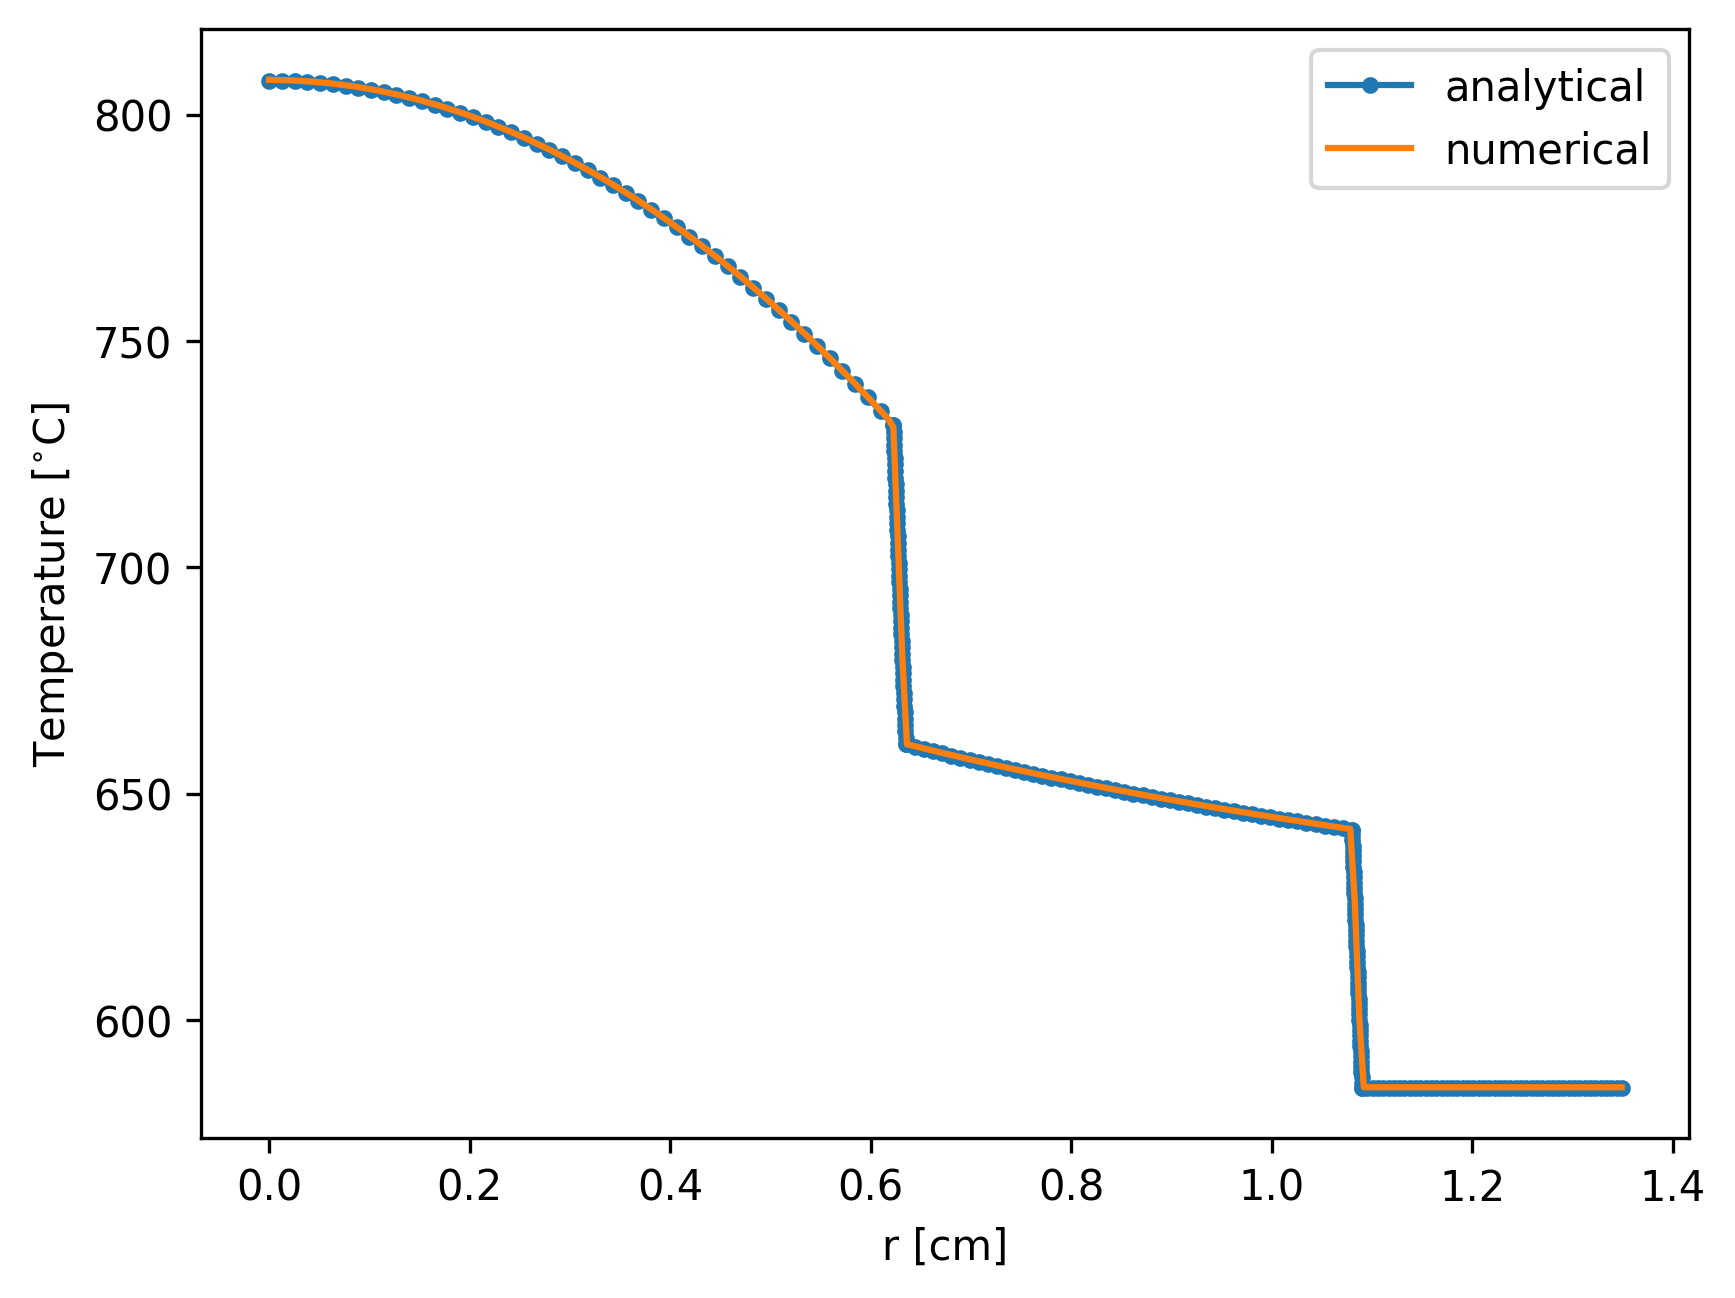
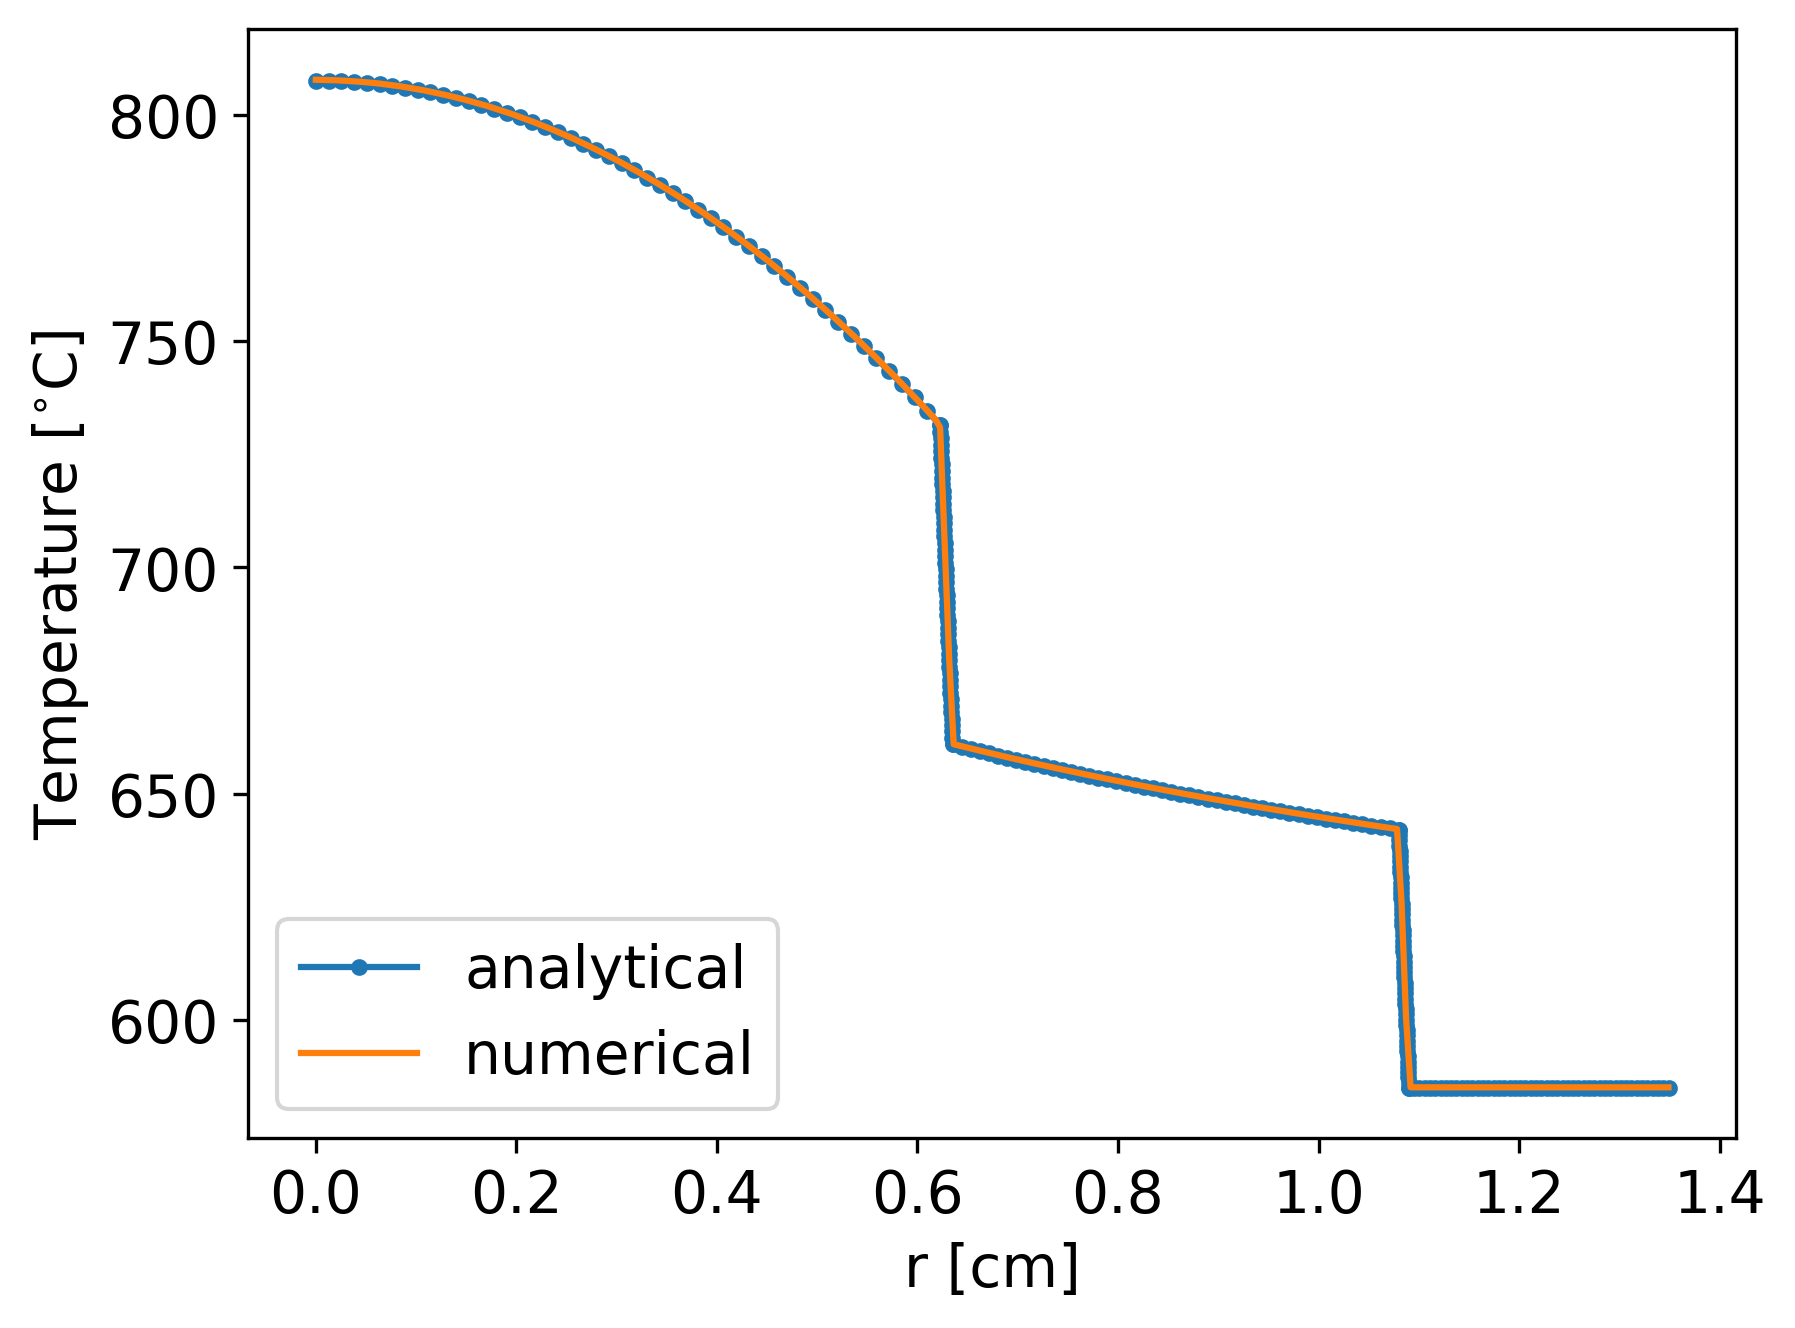
moved legends

Changed region(s): [[0.0622, 0.0308, 0.996, 0.9861], [0.0622, 0.0, 0.8092, 0.6471], [0.0, 0.2157, 0.1556, 0.6471]]

diff --git a/moltres-thermal-fluids/verification/postprocessing.py b/moltres-thermal-fluids/verification/postprocessing.py
@@ -171,7 +171,7 @@ def plot_verification_axial():
     plt.yticks(fontsize=14)
     plt.xlabel('z [cm]', fontsize=14)
     plt.ylabel(r'Temperature [$^{\circ}$C]', fontsize=14)
-    plt.legend(loc='upper right', fontsize=14)
+    plt.legend(loc='lower left', fontsize=14)
     plt.savefig('2D-preliminar-axial', dpi=300, bbox_inches="tight")
 
 
@@ -242,7 +242,7 @@ def plot_verification_radial():
     plt.yticks(fontsize=14)
     plt.xlabel('r [cm]', fontsize=14)
     plt.ylabel(r'Temperature [$^{\circ}$C]', fontsize=14)
-    plt.legend(loc='upper right', fontsize=14)
+    plt.legend(loc='lower left', fontsize=14)
     plt.savefig('2D-preliminar-radial2', dpi=300, bbox_inches="tight")
 
 
